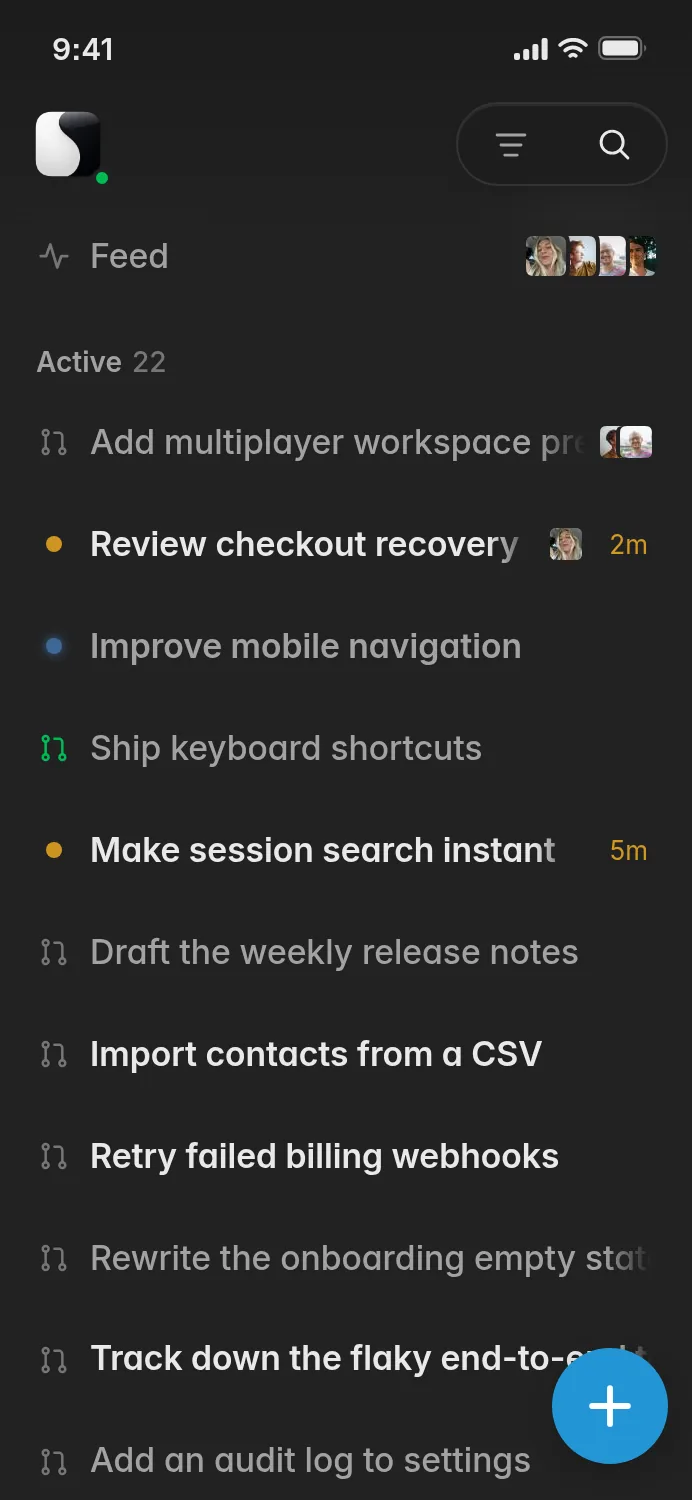
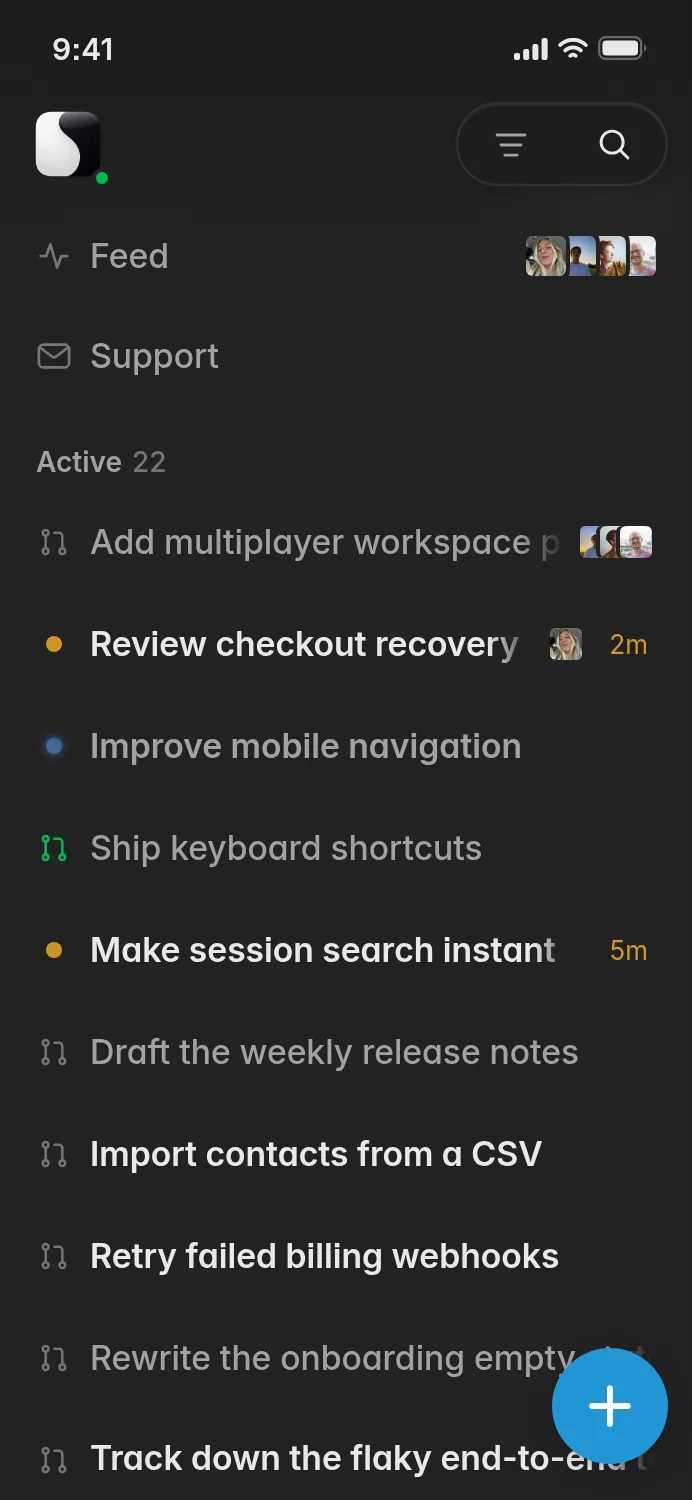
Show Kent in the landing demo presence

diff --git a/packages/clients/website/product-demo-main.tsx b/packages/clients/website/product-demo-main.tsx
@@ -23,7 +23,7 @@ const sessions: UnifiedSession[] = [
 		source: "opensession",
 		branch: "kent/workspace-presence",
 		worktreeDir: "/workspace/opensession",
-		startedBy: "Kent",
+		startedBy: "Grant",
 		title: "Add multiplayer workspace presence",
 		lastActivity: minutesAgo(4),
 		createdAt: minutesAgo(38),
@@ -52,7 +52,7 @@ const sessions: UnifiedSession[] = [
 		source: "opensession",
 		branch: "kent/checkout-recovery",
 		worktreeDir: "/workspace/checkout",
-		startedBy: "Kent",
+		startedBy: "Grant",
 		title: "Review checkout recovery",
 		lastActivity: minutesAgo(1),
 		createdAt: minutesAgo(52),
@@ -70,7 +70,7 @@ const sessions: UnifiedSession[] = [
 		source: "opensession",
 		branch: "kent/mobile-navigation",
 		worktreeDir: "/workspace/mobile",
-		startedBy: "Kent",
+		startedBy: "Grant",
 		title: "Improve mobile navigation",
 		lastActivity: minutesAgo(9),
 		createdAt: minutesAgo(74),
@@ -88,7 +88,7 @@ const sessions: UnifiedSession[] = [
 		source: "opensession",
 		branch: "kent/keyboard-shortcuts",
 		worktreeDir: "/workspace/shortcuts",
-		startedBy: "Kent",
+		startedBy: "Grant",
 		title: "Ship keyboard shortcuts",
 		lastActivity: minutesAgo(21),
 		createdAt: minutesAgo(96),
@@ -111,7 +111,7 @@ const sessions: UnifiedSession[] = [
 		source: "opensession",
 		branch: "kent/faster-session-search",
 		worktreeDir: "/workspace/search",
-		startedBy: "Kent",
+		startedBy: "Grant",
 		title: "Make session search instant",
 		lastActivity: minutesAgo(1),
 		createdAt: minutesAgo(129),
@@ -129,7 +129,7 @@ const sessions: UnifiedSession[] = [
 		source: "opensession",
 		branch: "kent/release-notes",
 		worktreeDir: "/workspace/release",
-		startedBy: "Kent",
+		startedBy: "Grant",
 		title: "Draft the weekly release notes",
 		lastActivity: minutesAgo(47),
 		createdAt: minutesAgo(163),
@@ -163,7 +163,7 @@ const sessions: UnifiedSession[] = [
 		source: "opensession" as const,
 		branch: `kent/${slug}`,
 		worktreeDir: `/workspace/${slug}`,
-		startedBy: "Kent",
+		startedBy: "Grant",
 		title,
 		lastActivity: minutesAgo(activeMinutes),
 		createdAt: minutesAgo(createdMinutes),
@@ -227,6 +227,7 @@ const unreadSessionIds = new Set([
 ]);
 
 const demoPresence = [
+	{ user: "Kent", sessionId: activeSessionId },
 	{ user: "Michiel", sessionId: activeSessionId },
 	{ user: "Jaap", sessionId: activeSessionId },
 	{ user: "Louise", sessionId: "bks-demo-checkout" },
@@ -415,7 +416,7 @@ const projects = sessions.map((session, index) => ({
 	id: session.workspaceId!,
 	name: session.title.replace(/^(Add|Review|Improve|Ship) /, ""),
 	repo: "opensession",
-	createdBy: session.startedBy || "Kent",
+	createdBy: session.startedBy || "Grant",
 	createdAt: session.createdAt,
 	order: index,
 }));
@@ -431,7 +432,7 @@ const responseFor = (url: URL, method: string): Response => {
 	const path = url.pathname.replace(/^\/(opensession|backstage)/, "");
 	if (path === "/api/sessions") return json(sessions, { headers: { ETag: '"demo-v1"' } });
 	if (path === "/api/auth/status")
-		return json({ required: false, authenticated: true, local: true, name: "Kent de Bruin" });
+		return json({ required: false, authenticated: true, local: true, name: "Grant Shaddick" });
 	if (path === "/api/people")
 		return json({
 			people: [
@@ -599,7 +600,10 @@ class DemoWebSocket extends EventTarget {
 				entries,
 				truncated: false,
 			});
-			this.emit({ type: "presence", sessionId: message.sessionId, viewers: ["Michiel", "Jaap"] }, 80);
+			this.emit(
+				{ type: "presence", sessionId: message.sessionId, viewers: ["Kent", "Michiel", "Jaap"] },
+				80,
+			);
 			return;
 		}
 		if (message.type === "prompt") {
@@ -620,7 +624,7 @@ class DemoWebSocket extends EventTarget {
 			};
 			this.emit({ type: "transcript_append", sessionId: message.sessionId, entries: [userEntry] });
 			this.emit({ type: "session_status", sessionId: message.sessionId, isRunning: true }, 60);
-			this.emit({ type: "stream_start", sessionId: message.sessionId, by: "Kent" }, 120);
+			this.emit({ type: "stream_start", sessionId: message.sessionId, by: "Grant" }, 120);
 			this.emit({ type: "stream_text", sessionId: message.sessionId, text: assistantEntry.content }, 260);
 			this.emit({ type: "transcript_append", sessionId: message.sessionId, entries: [assistantEntry] }, 900);
 			this.emit({ type: "stream_done", sessionId: message.sessionId }, 920);
@@ -675,11 +679,11 @@ Object.assign(window, {
 document.documentElement.dataset.platform = "mac";
 document.documentElement.classList.add("wco");
 
-localStorage.setItem("opensession-user", "Kent");
+localStorage.setItem("opensession-user", "Grant");
 localStorage.setItem("opensession-last-session", activeSessionId);
 // The restore is per-user: without the matching owner the demo opens Home
 // instead of the session it was written to show.
-localStorage.setItem("opensession-last-session-user", "Kent");
+localStorage.setItem("opensession-last-session-user", "Grant");
 localStorage.setItem("opensession-panel-open", "false");
 // The workspace summary card is open by default in the product, and it paints
 // over the transcript for the frames before the header is measured. That flash
@@ -695,7 +699,7 @@ localStorage.setItem("opensession-repo-count", "1");
 // unread once it HAS a mark that its activity has since passed, so every other
 // session is marked at its own last activity rather than left unmarked.
 localStorage.setItem(
-	"opensession-reads:kent",
+	"opensession-reads:grant",
 	JSON.stringify(
 		Object.fromEntries(
 			sessions.map((session) => [
